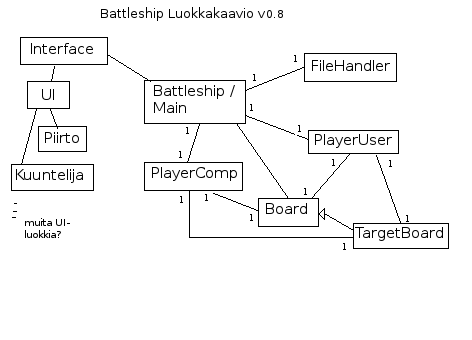
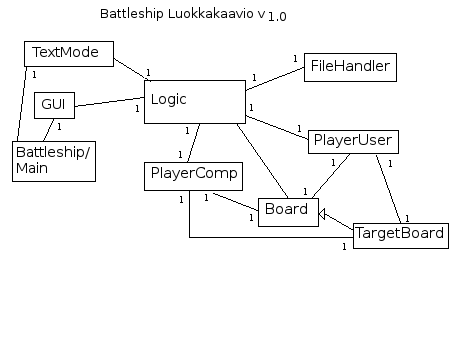
dokumentointia, refaktorointia/panikointia

diff --git a/Battleship/src/battleship/textmode/TextMode.java b/Battleship/src/battleship/textmode/TextMode.java
@@ -63,7 +63,6 @@ public class TextMode {
      * Basic game loop in text mode.
      */
     public void startGame() {
-        logic.getComp().placeShips();
         userPlaceShips();
         while (true) {
             if (logic.gameEnded()) {
@@ -98,10 +97,10 @@ public class TextMode {
                 int y = getYCoord();
                 System.out.print("Give orientation (0 - horizontal, 1 - vertical): ");
                 int orientation = getIntInput();
-                if (orientation < 0 || orientation > 1) {
-                    System.out.println("Invalid orientation! try again!");
-                    continue;
-                }
+//                if (orientation < 0 || orientation > 1) {
+//                    System.out.println("Invalid orientation! try again!");
+//                    continue;
+//                }
                 if (!logic.getUserBoard().placeShip(x, y, orientation, s.getLength())) {
                     System.out.println("invalid selection! try again");
                     continue;

diff --git a/Battleship/src/Battleship.java b/Battleship/src/Battleship.java
@@ -19,13 +19,29 @@ import javax.swing.SwingUtilities;
 public class Battleship {
     public static void main(String[] args) {
         
-
+        if (args == null || args.length == 0) {
+            GUI gui = new GUI();
+            SwingUtilities.invokeLater(gui);
+        } else if (args[0].equalsIgnoreCase("-t")) {
+            TextMode text = new TextMode();
+            text.startGame();
+        } else {
+            System.out.println("Argument '-t': textmode\nNo argument: graphics");
+            System.exit(0);
+        }
+//        if (!args[0].isEmpty() && args[0].equalsIgnoreCase("-t")) {
+//            TextMode text = new TextMode();
+//            text.startGame();
+//        } else {
+//            GUI gui = new GUI();
+//            SwingUtilities.invokeLater(gui);
+//        }
         //TextMode text = new TextMode();
         //text.startGame();
        
         
-        GUI gui = new GUI();
-        SwingUtilities.invokeLater(gui);
+        //GUI gui = new GUI();
+        
         
 
     }

diff --git a/Battleship/src/battleship/domain/Board.java b/Battleship/src/battleship/domain/Board.java
@@ -78,6 +78,9 @@ public class Board {
         if (!checkPlacementCoords(startX, startY, orientation, size)) {
             return false;
         }
+        if (!checkOrientation(orientation)) {
+            return false;
+        }    
         //check for other ships -- maybe needs to be better?
         int checkX = startX;
         int checkY = startY;
@@ -132,6 +135,15 @@ public class Board {
         }
         return true;
     }
+    
+    public boolean checkOrientation(int orientation) {
+        if (orientation < 0 || orientation > 1) {
+            return false;
+        }
+        return true;
+    }
+        
+    
 
     /**
      * Take a shot at the specified square

diff --git a/Battleship/src/battleship/GUI/ClickListener.java b/Battleship/src/battleship/GUI/ClickListener.java
@@ -43,10 +43,6 @@ public class ClickListener implements MouseListener {
         int x = (e.getX() / target.getCellSize());
         int y = ((e.getY() - target.getCellSize()) / target.getCellSize() - 1);
         //System.out.println("klikattiin solua: " + x + ", " + y);
-//        try {
-//            user.shoot(x, y);
-//        } catch (Exception ex) {
-//        }
         if (user.shoot(x, y)) {
             comp.shoot();
             target.repaint();

diff --git a/Battleship/src/battleship/domain/Logic.java b/Battleship/src/battleship/domain/Logic.java
@@ -31,6 +31,7 @@ public class Logic {
         this.compBoard.initBoard();
         this.player = new PlayerUser(userBoard, compBoard);
         this.comp = new PlayerComp(userBoard, compBoard);
+        this.comp.placeShips();
         this.fileHandler = new FileHandler();
         fileHandler.readScore();
         gameWon = false;

diff --git a/Battleship/src/battleship/GUI/GUI.java b/Battleship/src/battleship/GUI/GUI.java
@@ -42,7 +42,6 @@ public class GUI implements Runnable {
         this.compBoard = logic.getCompBoard();
         this.comp = logic.getComp();
         this.user = logic.getPlayer();
-        this.comp.placeShips();
         
     }
 
